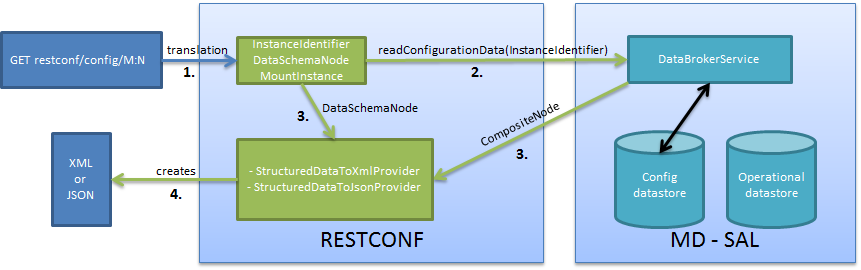
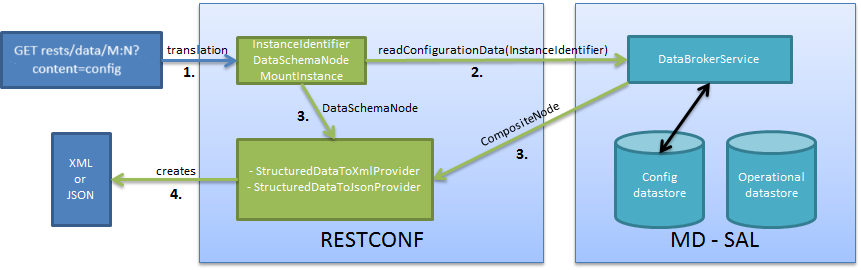
Remove bierman02 terminology from dev guide
Updated dev guide terminology after bierman02 removal.

JIRA: CONTROLLER-2088

Changed region(s): [[0.0, 0.1481, 0.1812, 0.2963]]

diff --git a/docs/dev-guide.rst b/docs/dev-guide.rst
@@ -874,7 +874,7 @@ RESTCONF operations overview
 
 .. note::
 
-    | Each request must start with the URI /restconf.
+    | Each request must start with the URI /rests.
     | RESTCONF listens on port 8080 for HTTP requests.
 
 RESTCONF supports **OPTIONS**, **GET**, **PUT**, **POST**, and
@@ -901,16 +901,16 @@ Identifier <https://wiki-archive.opendaylight.org/view/OpenDaylight_Controller:M
 -  <nodeName> can represent a data node which is a list or container
    yang built-in type. If the data node is a list, there must be defined
    keys of the list behind the data node name for example,
-   <nodeName>/<valueOfKey1>/<valueOfKey2>.
+   <nodeName>=<valueOfKey1>,<valueOfKey2>.
 
 -  | The format <moduleName>:<nodeName> has to be used in this case as
      well:
    | Module A has node A1. Module B augments node A1 by adding node X.
      Module C augments node A1 by adding node X. For clarity, it has to
      be known which node is X (for example: C:X). For more details about
-     encoding, see: `RESTCONF 02 - Encoding YANG Instance Identifiers in
+     encoding, see: `RESTCONF RFC 8040 - Encoding YANG Instance Identifiers in
      the Request
-     URI. <https://datatracker.ietf.org/doc/html/draft-bierman-netconf-restconf-02#section-5.3.1>`__
+     URI. <https://datatracker.ietf.org/doc/html/rfc8040#section-3.5.3>`__
 
 Mount point
 ~~~~~~~~~~~
@@ -927,29 +927,29 @@ Mount point
 HTTP methods
 ~~~~~~~~~~~~
 
-OPTIONS /restconf
-^^^^^^^^^^^^^^^^^
+OPTIONS /rests
+^^^^^^^^^^^^^^
 
 -  Returns the XML description of the resources with the required
    request and response media types in Web Application Description
    Language (WADL)
 
-GET /restconf/config/<identifier>
-^^^^^^^^^^^^^^^^^^^^^^^^^^^^^^^^^
+GET /rests/data/<identifier>?content=config
+^^^^^^^^^^^^^^^^^^^^^^^^^^^^^^^^^^^^^^^^^^^
 
 -  Returns a data node from the Config datastore.
 
 -  <identifier> points to a data node which must be retrieved.
 
-GET /restconf/operational/<identifier>
-^^^^^^^^^^^^^^^^^^^^^^^^^^^^^^^^^^^^^^
+GET /rests/data/<identifier>?content=nonconfig
+^^^^^^^^^^^^^^^^^^^^^^^^^^^^^^^^^^^^^^^^^^^^^^
 
--  Returns the value of the data node from the Operational datastore.
+-  Returns the value of the data node from the non-configuration datastore.
 
 -  <identifier> points to a data node which must be retrieved.
 
-PUT /restconf/config/<identifier>
-^^^^^^^^^^^^^^^^^^^^^^^^^^^^^^^^^
+PUT /rests/data/<identifier>
+^^^^^^^^^^^^^^^^^^^^^^^^^^^^
 
 -  Updates or creates data in the Config datastore and returns the state
    about success.
@@ -960,7 +960,7 @@ PUT /restconf/config/<identifier>
 
 ::
 
-    PUT http://<controllerIP>:8080/restconf/config/module1:foo/bar
+    PUT http://<controllerIP>:8080/rests/data/module1:foo/bar
     Content-Type: applicaton/xml
     <bar>
       …
@@ -970,14 +970,14 @@ PUT /restconf/config/<identifier>
 
 ::
 
-    PUT http://<controllerIP>:8080/restconf/config/module1:foo1/foo2/yang-ext:mount/module2:foo/bar
+    PUT http://<controllerIP>:8080/rests/data/module1:foo1/foo2/yang-ext:mount/module2:foo/bar
     Content-Type: applicaton/xml
     <bar>
       …
     </bar>
 
-POST /restconf/config
-^^^^^^^^^^^^^^^^^^^^^
+POST /rests/data
+^^^^^^^^^^^^^^^^
 
 -  Creates the data if it does not exist
 
@@ -985,7 +985,7 @@ POST /restconf/config
 
 ::
 
-    POST URL: http://localhost:8080/restconf/config/
+    POST URL: http://localhost:8080/rests/data/
     content-type: application/yang.data+json
     JSON payload:
 
@@ -998,8 +998,8 @@ POST /restconf/config
          }
       }
 
-POST /restconf/config/<identifier>
-^^^^^^^^^^^^^^^^^^^^^^^^^^^^^^^^^^
+POST /rests/data/<identifier>
+^^^^^^^^^^^^^^^^^^^^^^^^^^^^^
 
 -  Creates the data if it does not exist in the Config datastore, and
    returns the state about success.
@@ -1013,7 +1013,7 @@ POST /restconf/config/<identifier>
 
 ::
 
-    POST http://<controllerIP>:8080/restconf/config/module1:foo
+    POST http://<controllerIP>:8080/rests/data/module1:foo
     Content-Type: applicaton/xml/
     <bar xmlns=“module1namespace”>
       …
@@ -1023,14 +1023,14 @@ POST /restconf/config/<identifier>
 
 ::
 
-    http://<controllerIP>:8080/restconf/config/module1:foo1/foo2/yang-ext:mount/module2:foo
+    http://<controllerIP>:8080/rests/data/module1:foo1/foo2/yang-ext:mount/module2:foo
     Content-Type: applicaton/xml
     <bar xmlns=“module2namespace”>
       …
     </bar>
 
-POST /restconf/operations/<moduleName>:<rpcName>
-^^^^^^^^^^^^^^^^^^^^^^^^^^^^^^^^^^^^^^^^^^^^^^^^
+POST /rests/operations/<moduleName>:<rpcName>
+^^^^^^^^^^^^^^^^^^^^^^^^^^^^^^^^^^^^^^^^^^^^^
 
 -  Invokes RPC.
 
@@ -1046,7 +1046,7 @@ POST /restconf/operations/<moduleName>:<rpcName>
 
 ::
 
-    POST http://<controllerIP>:8080/restconf/operations/module1:fooRpc
+    POST http://<controllerIP>:8080/rests/operations/module1:fooRpc
     Content-Type: applicaton/xml
     Accept: applicaton/xml
     <input>
@@ -1062,7 +1062,7 @@ POST /restconf/operations/<moduleName>:<rpcName>
 
 ::
 
-    POST http://localhost:8080/restconf/operations/toaster:make-toast
+    POST http://localhost:8080/rests/operations/toaster:make-toast
     Content-Type: application/yang.data+json
     {
       "input" :
@@ -1077,8 +1077,8 @@ POST /restconf/operations/<moduleName>:<rpcName>
     Even though this is a default for the toasterToastType value in the
     yang, you still need to define it.
 
-DELETE /restconf/config/<identifier>
-^^^^^^^^^^^^^^^^^^^^^^^^^^^^^^^^^^^^
+DELETE /rests/data/<identifier>
+^^^^^^^^^^^^^^^^^^^^^^^^^^^^^^^
 
 -  Removes the data node in the Config datastore and returns the state
    about success.
@@ -1086,7 +1086,7 @@ DELETE /restconf/config/<identifier>
 -  <identifier> points to a data node which must be removed.
 
 More information is available in the `RESTCONF
-RFC <https://datatracker.ietf.org/doc/html/draft-bierman-netconf-restconf-02>`__.
+RFC <https://datatracker.ietf.org/doc/html/rfc8040>`__.
 
 How RESTCONF works
 ~~~~~~~~~~~~~~~~~~
@@ -1126,8 +1126,8 @@ CompositeNode
 GET in action
 ~~~~~~~~~~~~~
 
-Figure 1 shows the GET operation with URI restconf/config/M:N where M is
-the module name, and N is the node name.
+Figure 1 shows the GET operation with URI rests/data/M:N?content=config
+where M is the module name, and N is the node name.
 
 .. figure:: ./images/Get.png
    :alt: Get
@@ -1154,7 +1154,7 @@ the module name, and N is the node name.
 PUT in action
 ~~~~~~~~~~~~~
 
-Figure 2 shows the PUT operation with the URI restconf/config/M:N where
+Figure 2 shows the PUT operation with the URI rests/data/M:N where
 M is the module name, and N is the node name. Data is sent in the
 request either in the XML or JSON format.
 
@@ -1192,7 +1192,7 @@ Something practical
 ::
 
     Operation: POST
-    URI: http://192.168.11.1:8080/restconf/config/opendaylight-inventory:nodes/node/openflow:1/table/2
+    URI: http://192.168.11.1:8080/rests/data/opendaylight-inventory:nodes/node=openflow:1/table=2
     Content-Type: application/xml
 
 ::
@@ -1247,7 +1247,7 @@ Something practical
 ::
 
     Operation: PUT
-    URI: http://192.168.11.1:8080/restconf/config/opendaylight-inventory:nodes/node/openflow:1/table/2/flow/111
+    URI: http://192.168.11.1:8080/rests/data/opendaylight-inventory:nodes/node=openflow:1/table=2/flow=111
     Content-Type: application/xml
 
 ::
@@ -1302,7 +1302,7 @@ Something practical
 ::
 
     Operation: GET
-    URI: http://192.168.11.1:8080/restconf/config/opendaylight-inventory:nodes/node/openflow:1/table/2/flow/111
+    URI: http://192.168.11.1:8080/rests/data/opendaylight-inventory:nodes/node=openflow:1/table=2/flow=111?content=config
     Accept: application/xml
 
 | **HTTP response**
@@ -1357,7 +1357,7 @@ Something practical
 ::
 
     Operation: DELETE
-    URI: http://192.168.11.1:8080/restconf/config/opendaylight-inventory:nodes/node/openflow:1/table/2/flow/111
+    URI: http://192.168.11.1:8080/rests/data/opendaylight-inventory:nodes/node=openflow:1/table=2/flow=111
 
 | **HTTP response**
 
